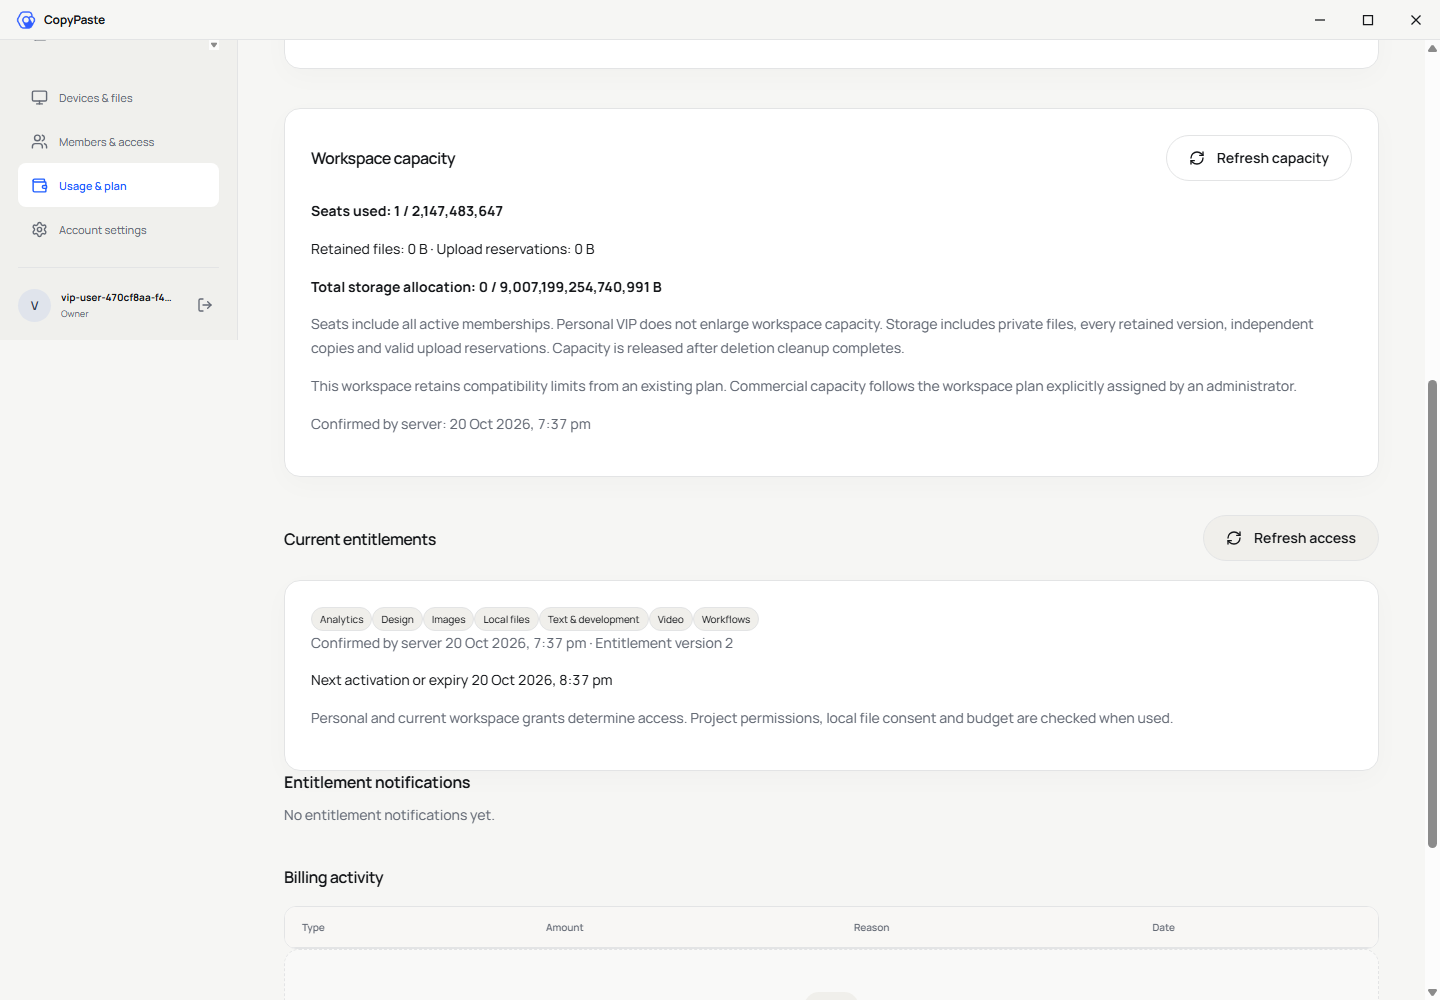
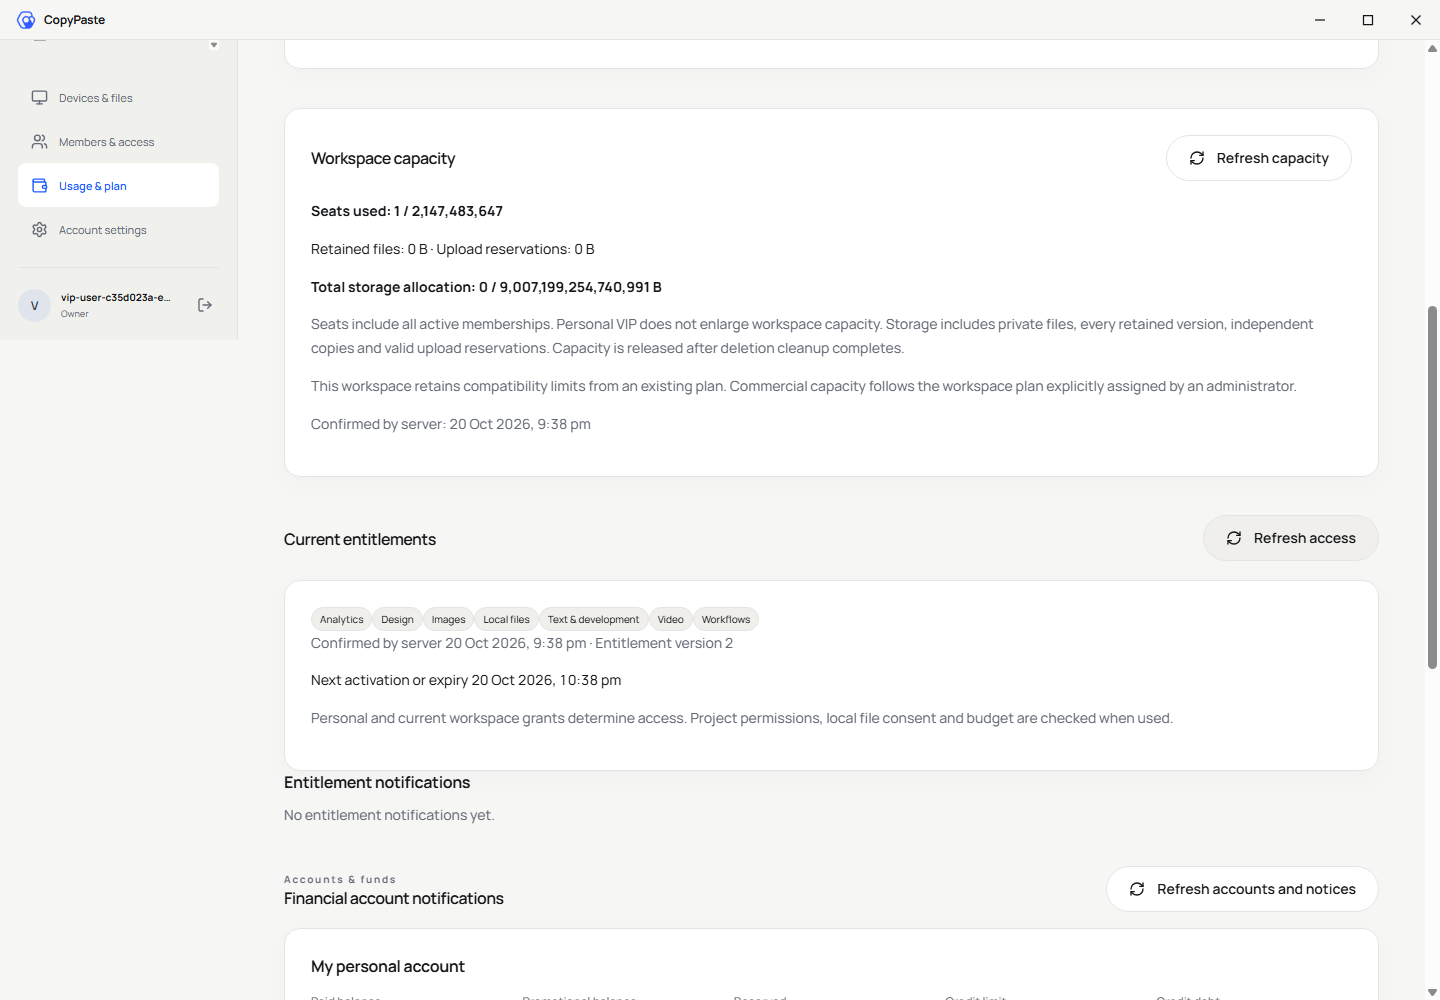
Document financial delivery and preserve current client evidence

diff --git a/README.en.md b/README.en.md
@@ -8,7 +8,25 @@ An independent Electron repository bundling the Web workspace and a narrow local
 ![Authenticated workspace](assets/screenshots/01-workspace.png)
 ![Local files](assets/screenshots/02-local-files.png)
 
-Stage 49 rechecks verify frameless Desktop, the native Chrome right Side Panel, live rights/notifications and sign-out. Native runtime and existing preview installer bytes are unchanged. The platform and Admin provide the new atomic VIP and explicit-gift command; this client consumes effective server rights. Complete installation, signing, SSO and system acceptance remain separate.
+The historical stage 49 recheck verified frameless Desktop, the native Chrome right Side Panel, live rights/notifications and sign-out while retaining that stage's installer bytes. Stage 50 below rebuilds the current previews with financial views. Complete installation, signing, SSO and system acceptance remain separate.
+
+## Durable financial notifications and three-client accounts (stage 50)
+
+The independent renderer includes the financial accounts and inbox. The main process admits only the bounded user GET/PATCH paths, with credentials retained by the secure local bridge. The window stays frameless with custom controls and no Electron application menu. The actual packaged client verifies PKCE, exact gift values, unknown refunds, cross-client read state and clearing on revocation/sign-out. Current previews are rebuilt from the new source; stage 49 binaries remain archived separately.
+
+Current platform regression: 410/410; actual three-client financial workflows: 8/8. AI/media and payment evidence are authorized local simulations; authentication, database, authorization, ledger and notification paths execute for real. This does not complete the original 102 acceptance cases, production banking or the full installation/system matrix.
+
+```mermaid
+flowchart LR
+  Source[Canonical financial fact] --> Tx[Same-transaction outbox]
+  Tx --> Worker[Current eligible recipient]
+  Worker --> Access[Recheck current authority]
+  Access --> Clients[Web / frameless Desktop / native Side Panel]
+```
+
+![Frameless financial accounts](assets/screenshots/28-financial-inbox.png)
+
+![Actual unknown refund](assets/screenshots/29-financial-unknown.png)
 
 ## Frameless window
 

diff --git a/README.md b/README.md
@@ -8,7 +8,25 @@
 ![已登录工作区](assets/screenshots/01-workspace.png)
 ![本地文件工作流](assets/screenshots/02-local-files.png)
 
-当前阶段 49 联调重新验证了无边框 Desktop、Chrome 原生右侧 Side Panel、实时权益/通知及退出；原生运行文件与现有预览安装器保持原字节。本次新增 VIP 加显式赠额的原子操作由平台和管理后台提供。本仓库只消费实际生效的服务器权益；完整安装/签名/SSO/系统验收仍单独跟踪。
+阶段 49 历史联调已验证无边框 Desktop、Chrome 原生右侧 Side Panel、实时权益/通知和退出，当时安装器保持原字节。下方阶段 50 随费用视图源码重建当前预览；完整安装/签名/SSO/系统验收仍单独跟踪。
+
+## 事务费用通知与三端账户（阶段 50）
+
+独立 renderer 已同步费用账户和通知页面；主进程只放行限定的用户 GET/PATCH 路径，凭证继续由本地安全桥管理。保持无原生边框、无 Electron 默认菜单和自绘窗口控制。实际打包客户端已验证 PKCE、精确赠额、未知退款、跨端已读、撤权与退出清空；当前预览包随新源码重建，阶段 49 包另存保留。
+
+当前平台回归 410/410，真实三端费用流程 8/8。AI/媒体和付款证据使用获准本机模拟；身份、数据库、权限、账本及通知实际执行。原始 102 项综合验收、生产银行及完整安装/系统矩阵继续单独跟踪。
+
+```mermaid
+flowchart LR
+  Source[规范费用事实] --> Tx[同事务通知意图]
+  Tx --> Worker[当前合法接收人]
+  Worker --> Access[读取时复查权限]
+  Access --> Clients[Web / 无边框 Desktop / 原生侧栏]
+```
+
+![无边框客户端费用账户](assets/screenshots/28-financial-inbox.png)
+
+![实际未知退款](assets/screenshots/29-financial-unknown.png)
 
 ## 无边框窗口
 
